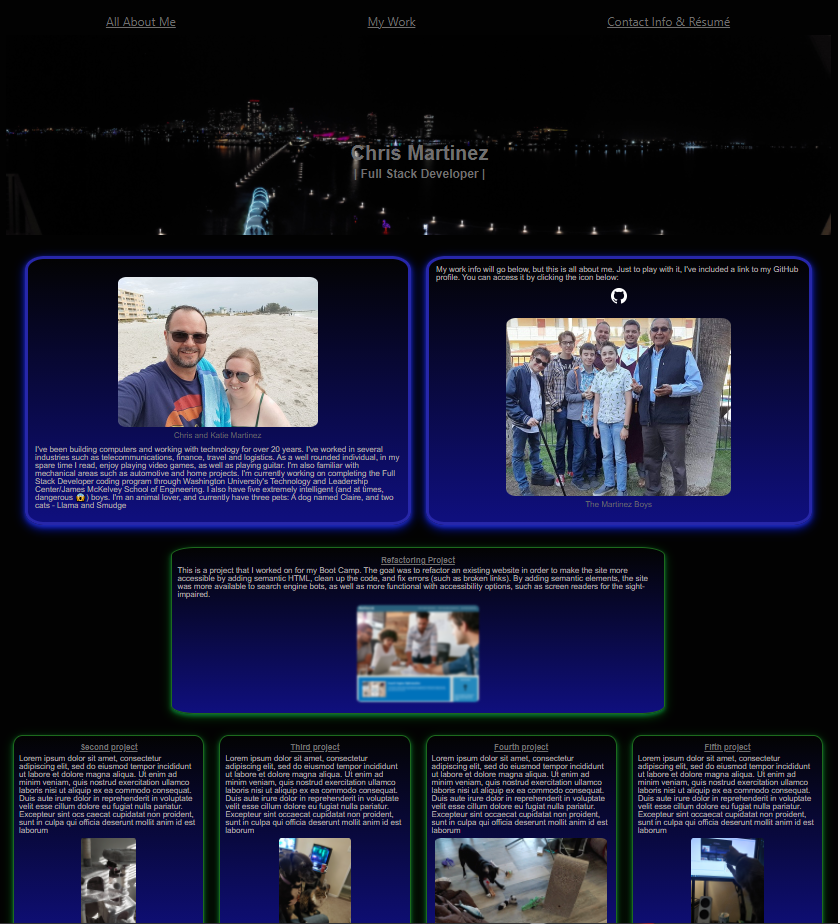
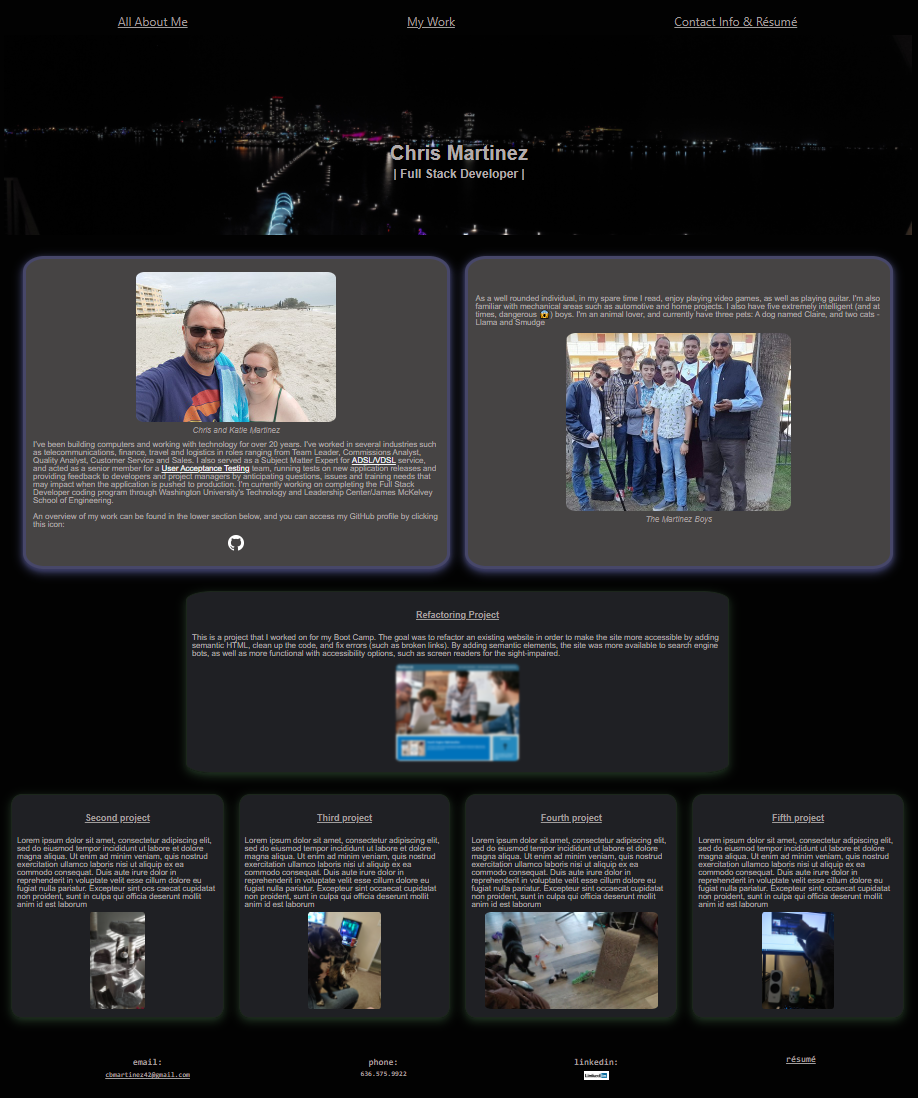
added comments, cleaned code, updated screenshot and readme

diff --git a/index.html b/index.html
@@ -33,7 +33,7 @@
         </div>
     </div>
 
-    <!-- <main class="page-section"> -->
+    <!-- about me section -->
     <main class="main-container">
         <section class="main">
             <div class="flex-item" id="about">
@@ -65,20 +65,19 @@
         </section>
     </main>
 
+    <!-- container for first project, larger than secondary projects -->
     <section class="lead-project" id="work">
-        <div class="proj-1">
-            <!-- link to my github repo -->
-            <a href="https://github.com/cbmartinez42/horiseon_accessible target=”_blank”"><b><h3>Refactoring Project</h3></b></a>
-                This is a project that I worked on for my Boot Camp. The goal was to refactor an existing website in order to make the site more accessible by adding semantic HTML, 
-                clean up the code, and fix errors (such as broken links). By adding semantic elements, the site was more available to search engine bots, as well as more functional 
-                with accessibility options, such as screen readers for the sight-impaired. 
+            <!-- link to my github repo for the project -->
+        <a href="https://github.com/cbmartinez42/horiseon_accessible target=”_blank”"><b><h3>Refactoring Project</h3></b></a>
+            This is a project that I worked on for my Boot Camp. The goal was to refactor an existing website in order to make the site more accessible by adding semantic HTML, 
+            clean up the code, and fix errors (such as broken links). By adding semantic elements, the site was more available to search engine bots, as well as more functional 
+            with accessibility options, such as screen readers for the sight-impaired. 
 
-            <!-- Screenshot that also works as a link to my github repo -->
-                <a href="https://github.com/cbmartinez42/horiseon_accessible" target=”_blank”><img src="./assets/images/horiseon-screenshot.png" class="screenshot" alt="Screenshot of project website"></a>
-        </div>
+        <!-- Screenshot that also works as a link to my github repo for the project-->
+        <a href="https://github.com/cbmartinez42/horiseon_accessible" target=”_blank”><img src="./assets/images/horiseon-screenshot.png" class="screenshot" alt="Screenshot of project website"></a>
     </section>
-        <!-- <div class="secondary-projects"> -->
-            <section class="projects">
+        <!-- placeholders for other projects-->
+        <section class="projects">
             <div class="project-item">
                 <a href="https://www.google.com" target=”_blank”><b><h3>Second project</h3></b></a>
                     Lorem ipsum dolor sit amet, consectetur adipiscing elit, sed do eiusmod tempor incididunt ut labore et dolore magna aliqua. Ut enim ad minim veniam, quis nostrud 
@@ -108,14 +107,14 @@
                 <img src="./assets/images/smudge-helping.jpg" class="screenshot" alt="Smudge helping me code this page">
             </div>
         </section>
-        <!-- </div> -->
 
 
-    <footer class="footer" id="contact">
+        <!-- footer for contact info and resume -->
+    <footer id="contact">
             <pre><h3>email:</h3><h4><a href="mailto:cbmartinez42@gmail.com">cbmartinez42@gmail.com</a></h4></pre>
             <pre><h3>phone:</h3><h4>636.575.9922</h4></pre>
             <pre><h3>linkedin:</h3><a href="https://www.linkedin.com/in/christopher-martinez-6761ba17/"><img class="logo-light" src="./assets/images/1280px-LinkedIn_Logo.png " /></a></pre>
             <h3><a href="https://drive.google.com/file/d/1m_Oq5X2qpVe6FhPd2YZbEKh4p7m-n-_O/view?usp=sharing">résumé</a></h3>
-      </footer>
+    </footer>
 </body>
 </html>

diff --git a/assets/css/style.css b/assets/css/style.css
@@ -52,6 +52,11 @@ h3 {
   font-size: 18px;
 }
 
+h4 {
+  font-size: 14px;
+  color: var(--secondary);
+}
+
 .main {
   font-family: Arial, Helvetica, sans-serif;
   display: flex;
@@ -95,6 +100,7 @@ header {
   font-family: Arial, Helvetica, sans-serif; 
 }
 
+/* set different font color and underline for inline items with tooltip */
 span {
   display: contents;
   font-weight: 500;
@@ -134,12 +140,16 @@ figcaption {
   font-style: italic;
 }
 
+/* set properties for github logo to appear correctly with background */
+.logo-dark {
+  max-width: 50px;
+  border: none;
+  background-color: none;
+}
+
 /* values for first project so that it appears larger than the rest */
 .lead-project {
   justify-content: center;
-}
-
-.proj-1 {
   padding: 10px;
   margin: 0px 20% 0px 20%;
   display: flex;
@@ -153,21 +163,6 @@ figcaption {
   box-shadow: 0 4px 8px 0 rgba(43, 62, 51, 0.16), 0 6px 20px 0 rgba(37, 60, 38, 0.86);
 }
 
-.screenshot-container {
-  position: absolute;
-  top: 50%;
-  left: 50%;
-  transform: translate(-50%, -50%);
-}
-
-.label {
-  font-size: 1.5em;
-  font-weight: bolder;
-  color: grey;
-  background-color: black;
-  padding: 1em;
-  border-radius: 13%;
-}
 .projects {
   margin: 20px 0;
   display: flex;
@@ -200,29 +195,12 @@ figcaption {
 /* set blur option for first screenshot only using pseudo-class */
 .screenshot:first-child {
   filter: blur(2px);
-    -webkit-filter: blur(2px);
-    max-width: 400px;
+  -webkit-filter: blur(2px);
+  max-width: 400px;
 }
 
 footer {
   font-family: monospace;
-}
-
-/* set properties for logo to appear correctly with background */
-.logo-light {
-  max-width: 50px;
-  border: none;
-  background-color: white;
-}
-
-/* set properties for logo to appear correctly with background */
-.logo-dark {
-  max-width: 50px;
-  border: none;
-  background-color: none;
-}
-
-.footer {
   padding: 30px;
   clear: both;
   text-align: center;
@@ -232,15 +210,15 @@ footer {
   flex-wrap: wrap;
 }
 
-.footer h3 {
-  font-size: 18px;
-  font-weight: bold;
-  color: var(--secondary);
+/* set properties for linkedin logo to appear correctly with background */
+.logo-light {
+  max-width: 50px;
+  border: none;
+  background-color: white;
 }
 
-.footer h4 {
-  font-size: 14px;
-  color: var(--secondary);
+.footer h3 {
+  font-weight: bold;
 }
 
 /* media query for tablets - set so that project items change to two rows of two items each  */
@@ -303,6 +281,16 @@ footer {
 
   h2 {
     font-size: 1em;
+  }
+
+  h3 {
+    color: var(--secondary);
+    font-size: 14px;
+  }
+  
+  h4 {
+    font-size: 12px;
+    color: var(--secondary);
   }
 
   .project-item {

diff --git a/README.md b/README.md
@@ -5,7 +5,7 @@ This is an original application with the intent of showcasing my work to prospec
 
 Included in this application are:
 * HTML code utilizing semantic elements to optimize for accessibility
-    * Utilized `<header>`', `<footer>` and `<nav>` elements to easily distinguish from the rest of the body 
+    * Utilized `<header>`, `<footer>` and `<nav>` elements to easily distinguish from the rest of the body 
     * Utilized `<section>`, `<figure>` and `<figcaption>` to more easily identify main items as well as images
     * Implimented `alt` attribute for images to improve accessibility as well 
 * Utilized efficient CSS code
@@ -25,6 +25,7 @@ Many thanks to the below individuals who provided input and suggestions
 * Riheel Hamoande
 * Mim Armand
 * Stephen Simone
+* Katie Martinez *(I'm colorblind, and she was instrumental in toning down my color scheme!!)*
 
 
 If any additional issues are found, or if there are any suggestions for improvement, please send an email to site developer Chris Martinez at cbmartinez42@gmail.com
